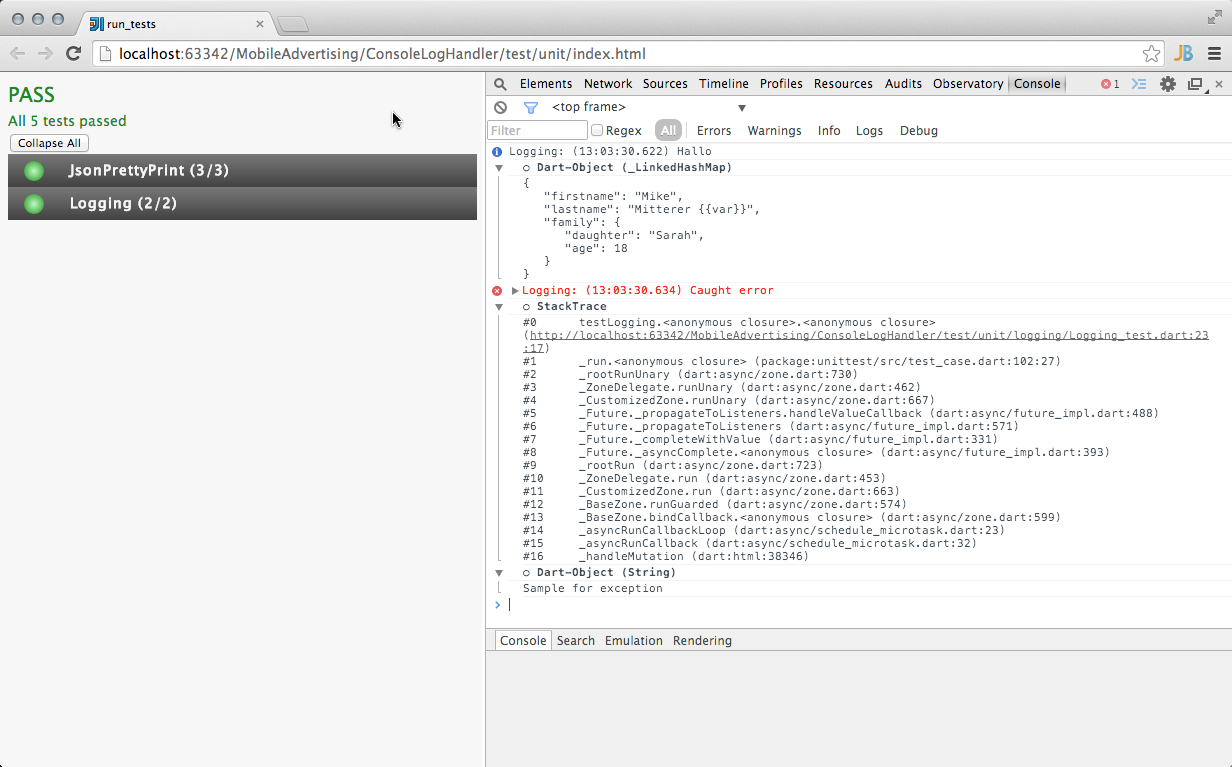
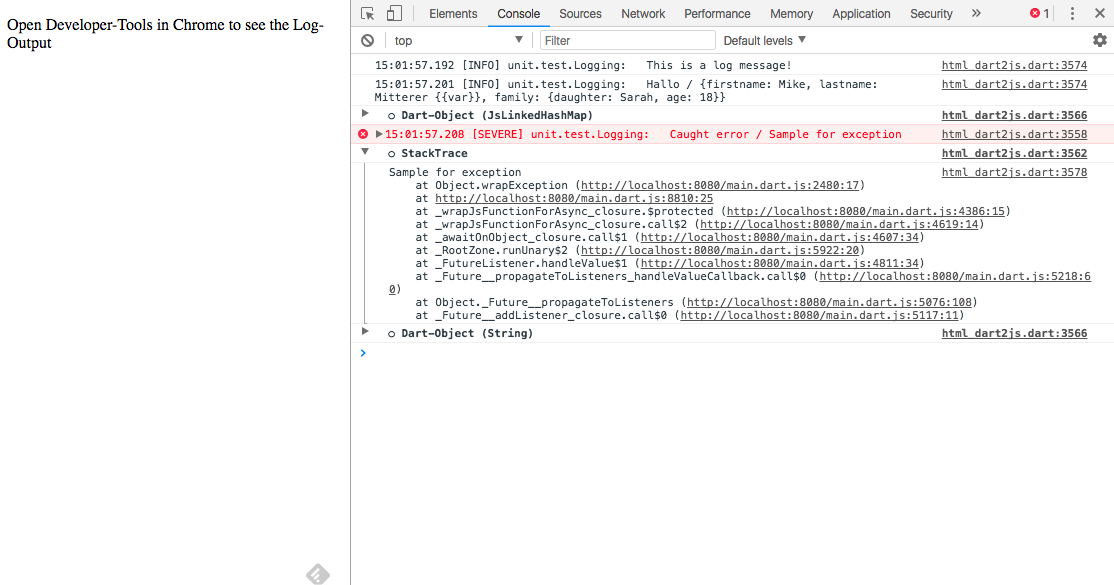
doc: Changed documentation in README

Changed region(s): [[0.0, 0.0, 1.0, 0.7692], [0.3968, 0.8, 1.0, 0.8615], [0.2747, 0.9538, 0.3052, 1.0]]

diff --git a/lib/console_log_handler.dart b/lib/console_log_handler.dart
@@ -1,6 +1,7 @@
 library console_log_handler;
 
 import 'dart:html';
+import 'dart:math';
 import "dart:convert";
 import "package:intl/intl.dart";
 
@@ -122,8 +123,10 @@ class LogConsoleHandler {
 }
 
 String defaultTransformer(final LogRecord logRecord,{ final int nameWidth = 20 }) {
-    String shortLoggerName = logRecord.loggerName.replaceAll(new RegExp('^.+\\.'), "");
     final dateFormat = new DateFormat("HH:mm:ss.SSS");
+
+    String loggerName = logRecord.loggerName.substring(max(0,logRecord.loggerName.length - nameWidth));
+    String shortLoggerName = logRecord.loggerName.replaceAll(new RegExp('^.+\\.'), "");
 
     String time;
     if (logRecord.time != null) {
@@ -132,12 +135,17 @@ String defaultTransformer(final LogRecord logRecord,{ final int nameWidth = 20 }
         time = dateFormat.format(new DateTime.now());
     }
 
-    shortLoggerName.padRight(nameWidth);
+    if(loggerName.length > nameWidth) {
+        loggerName = shortLoggerName;
+    }
+    loggerName += ":";
+    loggerName = loggerName.padRight(nameWidth);
+    
     if (logRecord.error != null) {
-        return "$time ${logRecord.level} ${shortLoggerName} ${logRecord.message} / ${logRecord.error}";
+        return "$time [${logRecord.level}] ${loggerName} ${logRecord.message} / ${logRecord.error}";
 
     } else {
-        return "$time ${logRecord.level} ${shortLoggerName} ${logRecord.message}";
+        return "$time [${logRecord.level}] ${loggerName} ${logRecord.message}";
     }
 }
 

diff --git a/example/visual_test/web/main.dart b/example/visual_test/web/main.dart
@@ -6,6 +6,8 @@ main() async {
     final Logger _logger = new Logger("unit.test.Logging");
     configLogging();
 
+    _logger.info("This is a log message!");
+    
     final Map<String, dynamic> map = {
         "firstname" : "Mike", "lastname" : "Mitterer {{var}}", "family" : {
             "daughter" : "Sarah", "age" : 18
@@ -19,24 +21,6 @@ main() async {
     } on String catch( error, stacktrace) {
 
         _logger.severe("Caught error",error,stacktrace);
-    }
-}
-
-String myTransformer(final LogRecord logRecord) {
-    final shortLoggerName = logRecord.loggerName.replaceAll(new RegExp('^.+\\.'), "");
-    final dateFormat = new DateFormat("HH:mm:ss.SSS");
-
-    String time;
-    if (logRecord.time != null) {
-        time = dateFormat.format(logRecord.time);
-    } else {
-        time = dateFormat.format(new DateTime.now());
-    }
-    if (logRecord.error != null) {
-        return "$time ${logRecord.level} ${shortLoggerName.padRight(10)} ${logRecord.message} / ${logRecord.error}";
-
-    } else {
-        return "$time ${logRecord.level} ${shortLoggerName.padRight(10)} ${logRecord.message}";
     }
 }
 

diff --git a/example/visual_test/web/index.html b/example/visual_test/web/index.html
@@ -5,7 +5,7 @@
     <meta http-equiv="X-UA-Compatible" content="IE=edge">
     <meta name="description" content="A front-end template that helps you build fast, modern mobile web apps.">
     <meta name="viewport" content="width=device-width, initial-scale=1">
-    <title>Material Design Lite</title>
+    <title>Sample</title>
 </head>
 
 <body>

diff --git a/README.md b/README.md
@@ -28,7 +28,7 @@ void configLogging() {
     // now control the logging.
     // Turn off all logging first
     Logger.root.level = Level.INFO;
-    Logger.root.onRecord.listen(new LogConsoleHandler());
+    Logger.root.onRecord.listen(logToConsole);
 }
 ```
 
@@ -37,7 +37,7 @@ void configLogging() {
 
 ### License
 
-    Copyright 2016 Michael Mitterer (office@mikemitterer.at), 
+    Copyright 2017 Michael Mitterer (office@mikemitterer.at), 
     IT-Consulting and Development Limited, Austrian Branch
 
     Licensed under the Apache License, Version 2.0 (the "License");
@@ -51,11 +51,6 @@ void configLogging() {
     "AS IS" BASIS, WITHOUT WARRANTIES OR CONDITIONS OF ANY KIND, 
     either express or implied. See the License for the specific language 
     governing permissions and limitations under the License.
-    
-### Thanks
-    
-I used Chris Buckett's (chrisbuckett@gmail.com) [logging_handler][4] library for my work.
-Thank's Chris!
     
 If this plugin is helpful for you - please [(Circle)](http://gplus.mikemitterer.at/) me.
 
